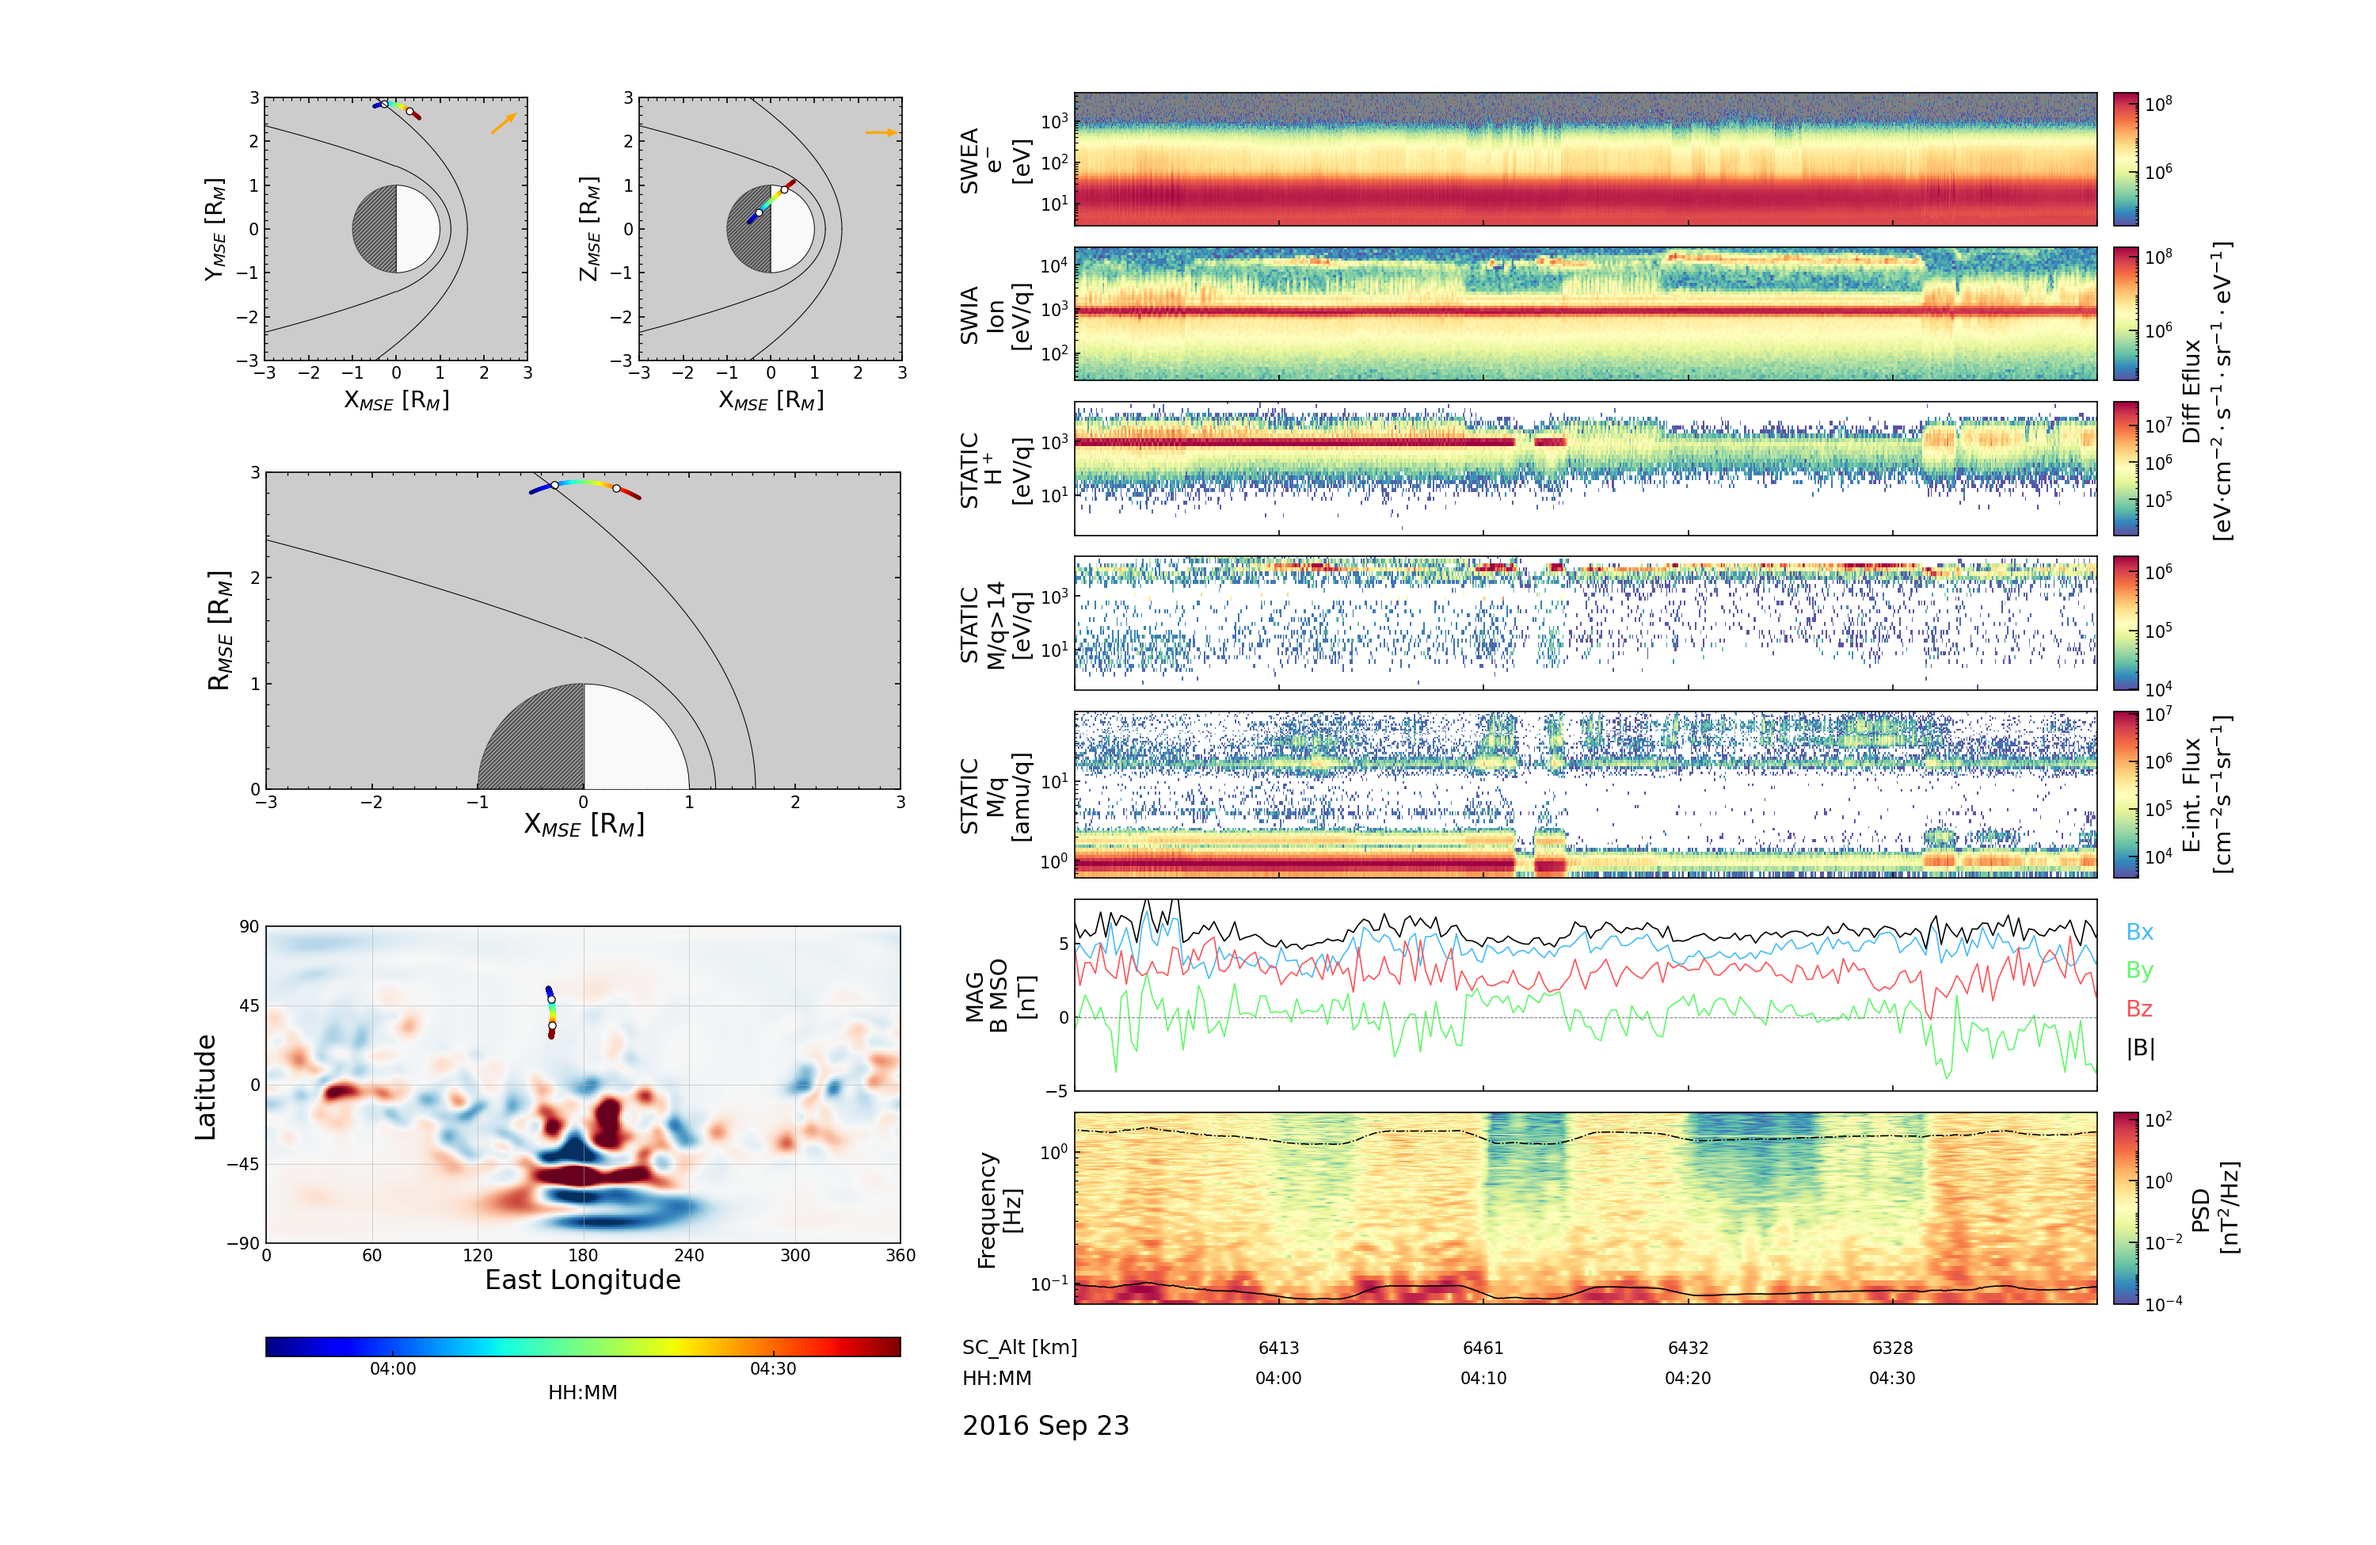
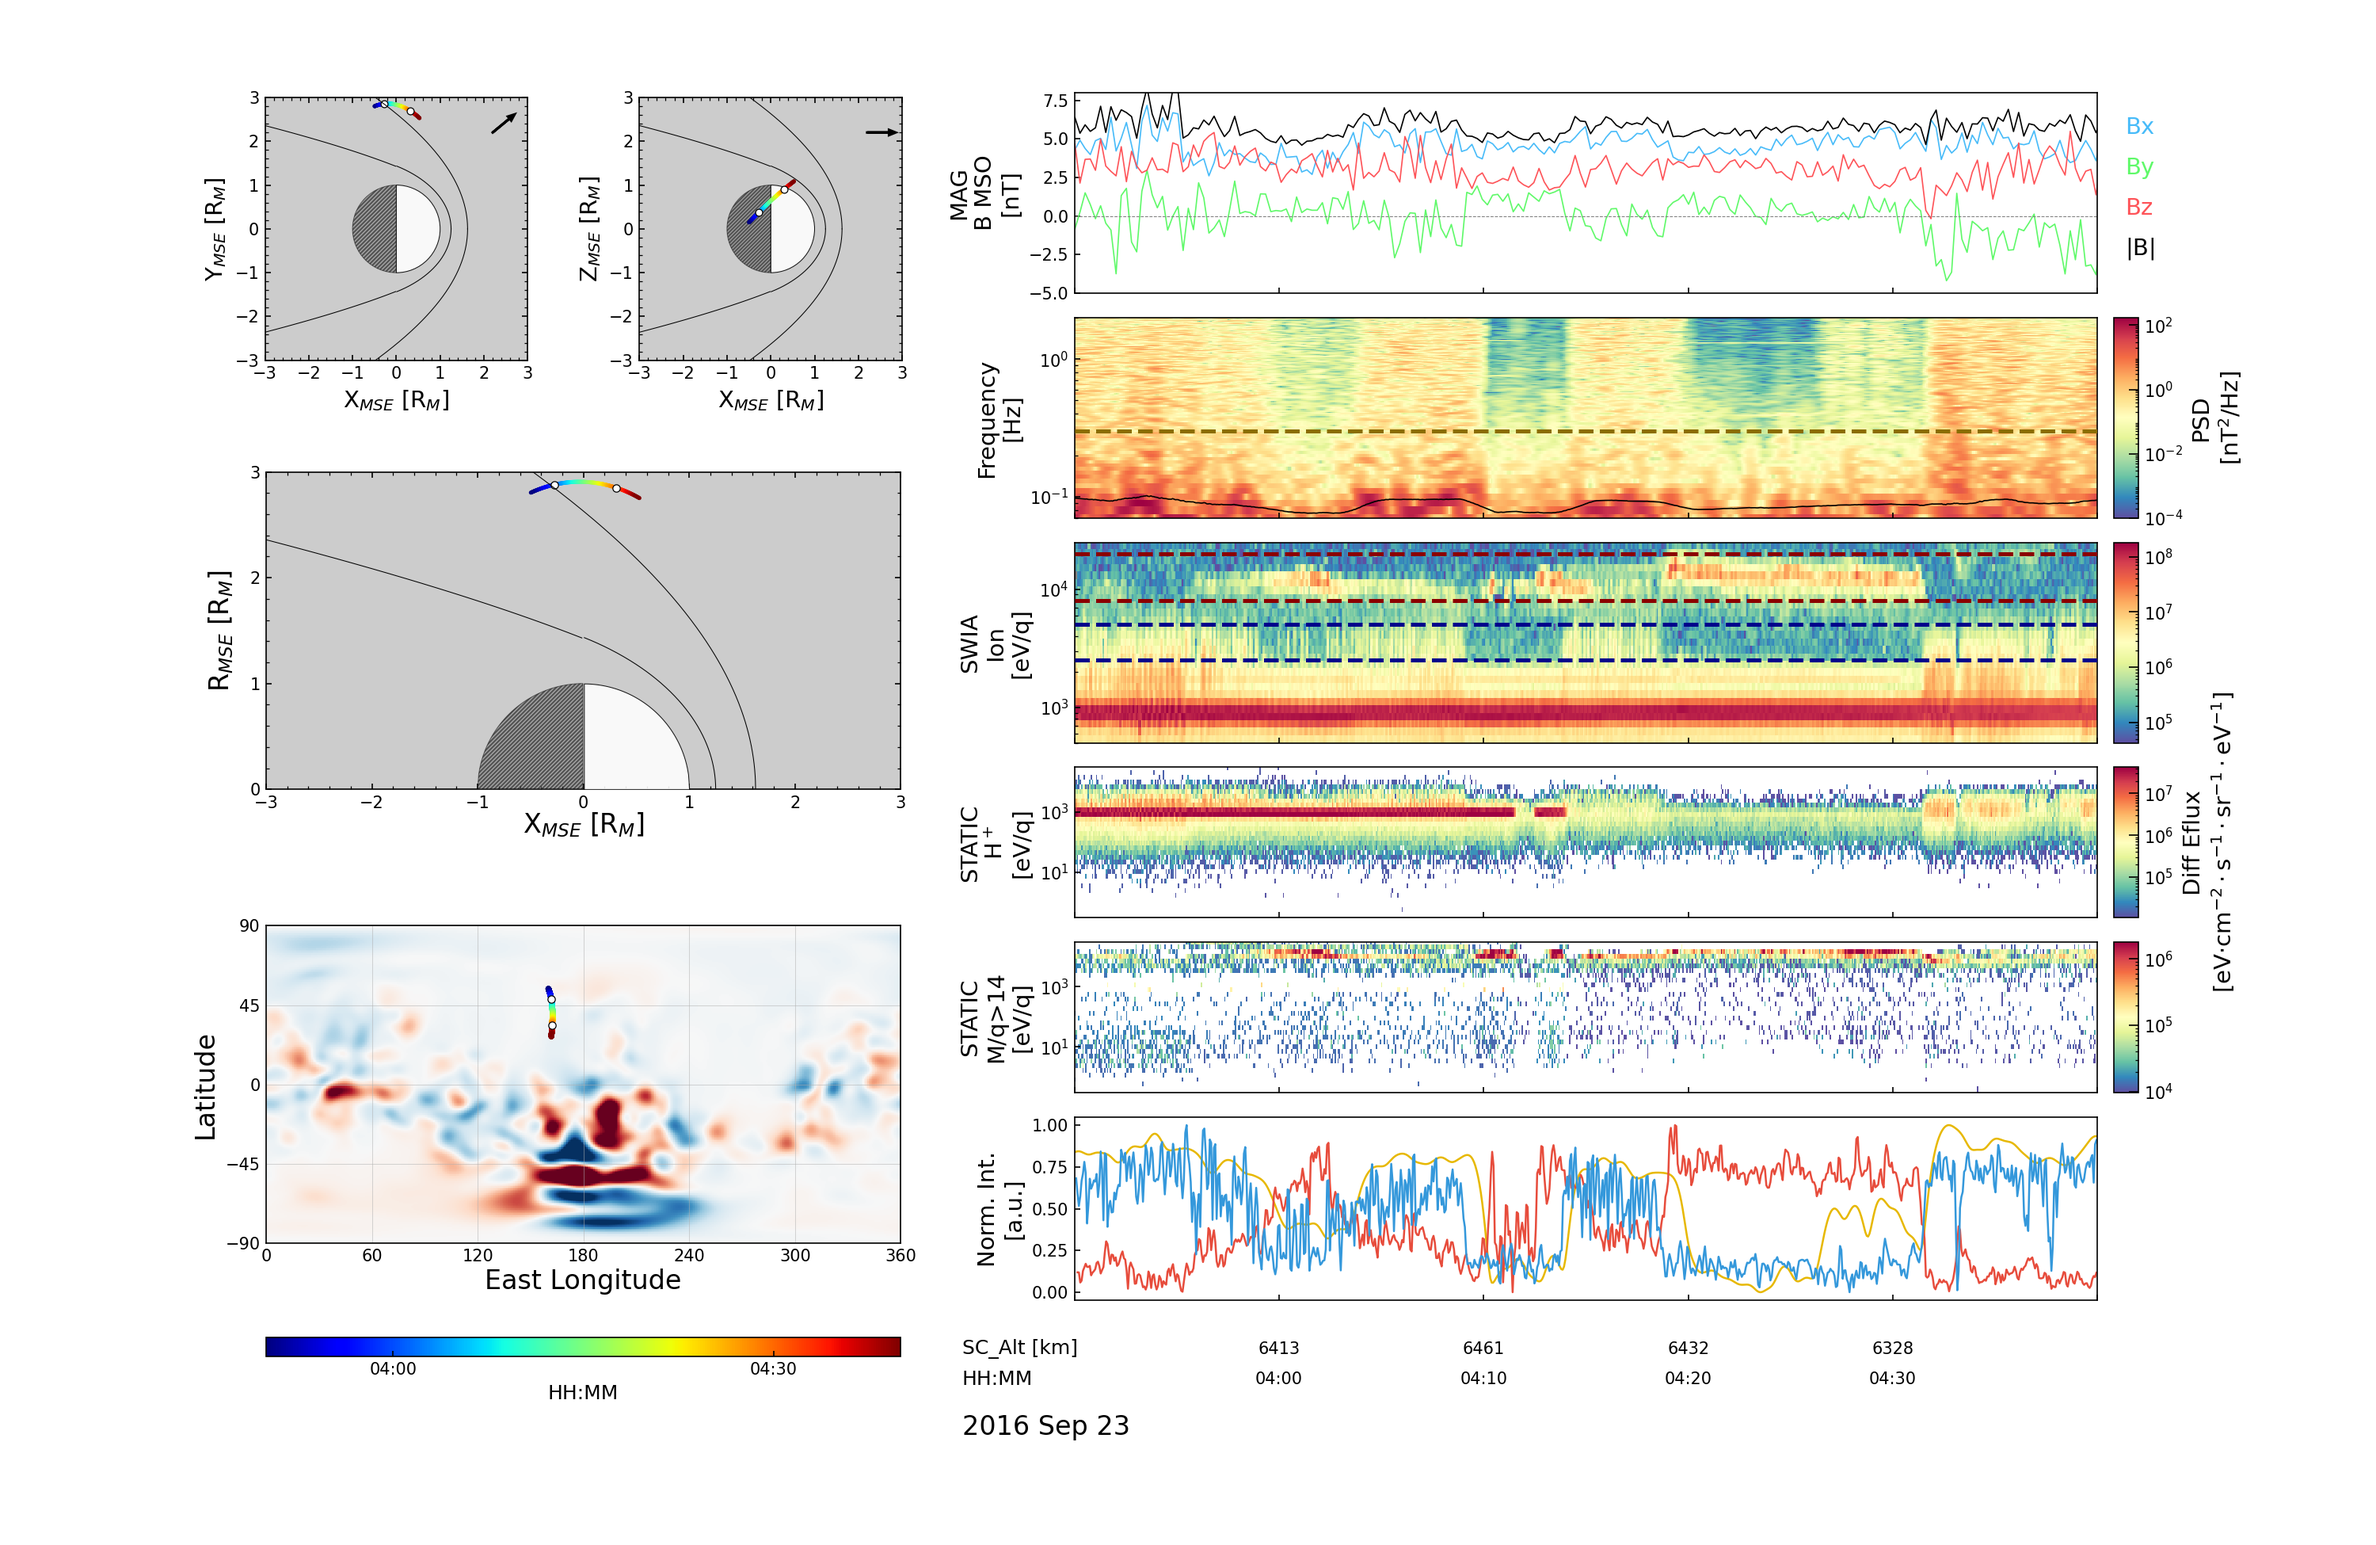
vault backup: 2026-08-三 23:21:57

Changed region(s): [[0.403, 0.0615, 0.961, 0.8615]]

diff --git a/Surface Wave Structure/Bow Shock相关的文章.md b/Surface Wave Structure/Bow Shock相关的文章.md
@@ -1,0 +1,28 @@
+
+[Bow Shock Ripples and Their Modulation of Whistler Wave Packets: Jing‐Huan Li](https://doi.org/10.1029/2024GL111590)
+[Ion Reflection From the Martian Bow Shock:  J. S. Halekas](https://doi. org/10.1029/2025JA034317)
+## ***Jing-Huan Li*** 
+
+核心是利用 MMS 四星编队的同步观测，解决了空间物理领域一个长期争议：**准垂直弓激波处观测到的周期性磁场增强，本质是激波表面的涟漪（空间结构），而非激波重整（时间演化过程）**
+![[MMS 2021-05-02.png]]
+- 穿越过程中，磁场强度出现**周期约 8 秒的周期性增强**，同步伴随等离子体密度升高、离子整体流速下降。
+- 反射离子群体（能量低于背景太阳风的离子）呈现同周期的周期性出现。
+- 同时存在**1~3 Hz 的高频哨声波包**，它们也以约 8 秒的周期间歇出现，明显被低频结构调制
+
+### **两条排他性证据**
+#### 1. 激波法向与法向速度的周期性振荡
+
+论文用**MDD(最小方向差分)** 计算逐时刻的局地激波法向，用**STD(时空差分)** 计算局地激波的法向传播速度，发现：
+- 局地激波法向的切向分量随磁场极值周期性振荡 —— 说明激波面在周期性倾斜。
+- 局地法向传播速度也同步周期性反转，方向交替指向上游和下游。
+这完全符合表面波沿激波切向传播的特征：波峰波谷扫过卫星时，局部激波面的倾角和法向速度都会交替变化。
+进一步通过速度矢量拟合，算出表面波沿近似磁场方向传播，速度约 323 km/s，是下游阿尔芬速度的 2~2.5 倍，与此前 Cluster 卫星的观测统计一致。
+#### 2. 激波空间剖面单调，排除重整
+
+论文积分法向速度，重构出**沿激波法向的磁场空间剖面**：
+- 不同振荡周期的磁场剖面几乎完全重合，且沿法向磁场强度单调上升。
+- 如果是激波重整，激波结构会随时间演化，不同周期的剖面无法重合，且会出现 “双斜坡” 的内部结构。
+这一结果直接排除了激波重整的可能性。
+
+## ***J. S. Halekas***
+![[Pasted image 20260805223400.png]]

diff --git a/Surface Wave Structure/火星上Maven观测到类似于表面波的Case.md b/Surface Wave Structure/火星上Maven观测到类似于表面波的Case.md
@@ -1,4 +1,5 @@
 ![[MAVEN_20160923_0350-0440.png]]
-
+可以知道的是这些毛绒状的结构不是重离子成分，而且磁场波动较弱的情况的波动也与磁鞘里面的磁场波动不是很相像。
 ![[VDF.png]]
-[[关于表面波知识最基本的一些文章]]
+## [[关于表面波知识最基本的一些文章]]
+## [[Bow Shock相关的文章]]
